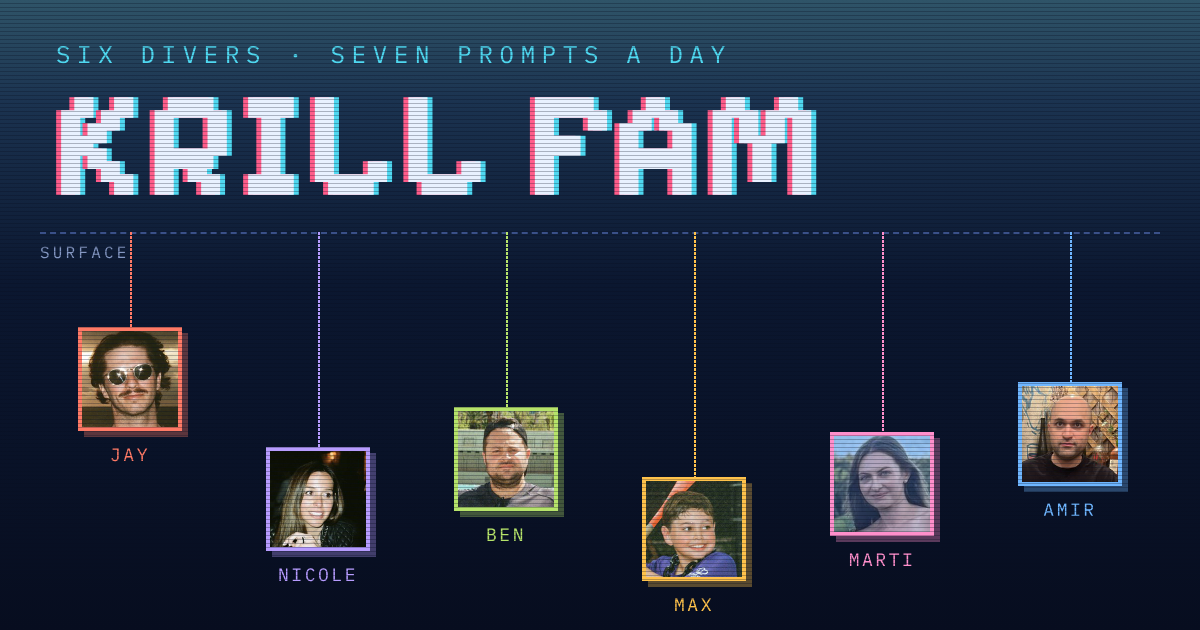
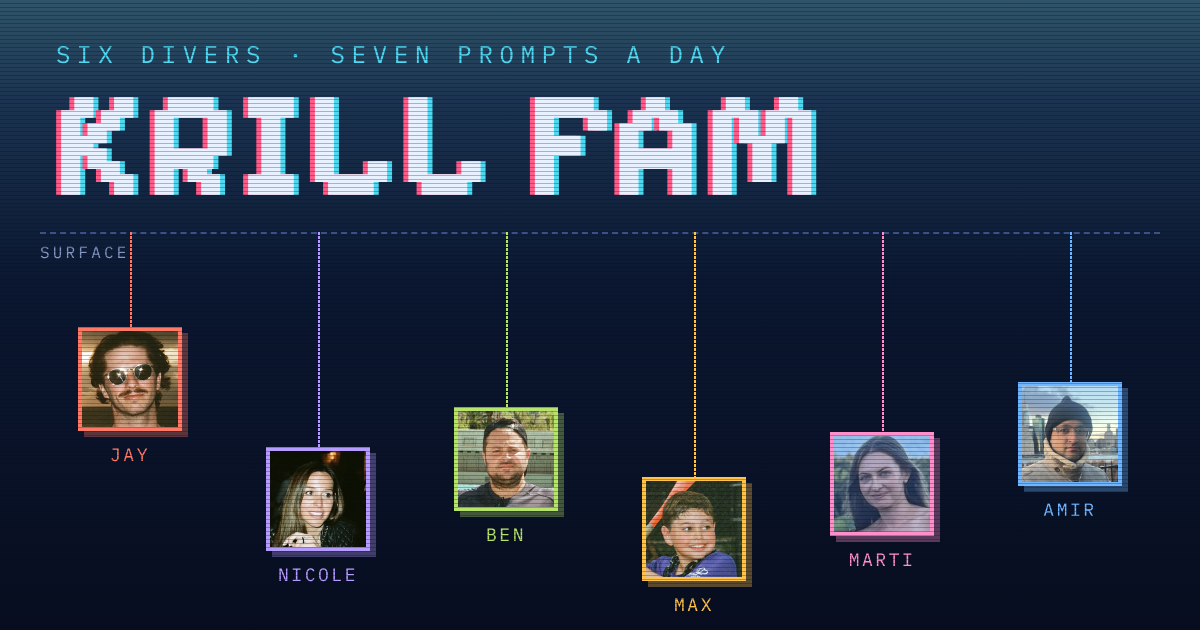
New photo for Amir; re-render link preview
Claude-Session: https://claude.ai/code/session_01CWV6Sp5nDrstpFoqGFAjnp

Changed region(s): [[0.8325, 0.6032, 0.9558, 0.7841]]

diff --git a/index.html b/index.html
@@ -196,7 +196,7 @@ td.num{white-space:nowrap}
 <body>
 <div id="app"></div>
 <div id="toast" role="status"></div>
-<script id="state" type="application/json">{"rev":3,"emo":{},"players":[{"id":"jay","name":"Jay","short":"Jay","e":"🦈","img":"faces/jay.jpg","c":"#FF7A66"},{"id":"nicole","name":"Nicole","short":"Nicole","e":"🐙","img":"faces/nicole.jpg","c":"#B79CFF"},{"id":"ben","name":"Ben","short":"Ben","e":"🐢","img":"faces/ben.jpg","c":"#B6E36A"},{"id":"max","name":"Max","short":"Max","e":"🐡","img":"faces/max.jpg","c":"#FFC24B"},{"id":"marti","name":"Marti","short":"Marti","e":"🦀","img":"faces/marti.jpg","c":"#FF8FCB"},{"id":"amir","name":"Amir","short":"Amir","e":"🐬","img":"faces/amir.jpg","c":"#6FB6FF"}],"days":{"2026-11-11":{"n":119,"prompts":[{"t":"Name a country where at least 50% of people speak English","g":"places"},{"t":"Name a bodily function or biological process","g":"science"},{"t":"Name a one-word animal that starts with T","g":"nature"},{"t":"Name something that has a needle","g":"life"},{"t":"Name an original movie or show from Netflix, Prime Video, etc.","g":"screen"},{"t":"Name a named object in space that's bigger than Earth","g":"science"},{"t":"Name a character from Mario, Zelda, Donkey Kong, etc.","g":"screen"}],"scores":{"amir":{"q":[10,85,60,30,30,10,30]},"jay":{"q":[30,60,30,30,60,10,30]},"ben":{"q":[30,30,60,60,10,10,30]},"max":{"q":[10,0,85,30,0,60,30]},"nicole":{"q":[10,60,10,10,0,30,30]}}}}}</script>
+<script id="state" type="application/json">{"rev":4,"emo":{},"players":[{"id":"jay","name":"Jay","short":"Jay","e":"🦈","img":"faces/jay.jpg","c":"#FF7A66"},{"id":"nicole","name":"Nicole","short":"Nicole","e":"🐙","img":"faces/nicole.jpg","c":"#B79CFF"},{"id":"ben","name":"Ben","short":"Ben","e":"🐢","img":"faces/ben.jpg","c":"#B6E36A"},{"id":"max","name":"Max","short":"Max","e":"🐡","img":"faces/max.jpg","c":"#FFC24B"},{"id":"marti","name":"Marti","short":"Marti","e":"🦀","img":"faces/marti.jpg","c":"#FF8FCB"},{"id":"amir","name":"Amir","short":"Amir","e":"🐬","img":"faces/amir2.jpg","c":"#6FB6FF"}],"days":{"2026-11-11":{"n":119,"prompts":[{"t":"Name a country where at least 50% of people speak English","g":"places"},{"t":"Name a bodily function or biological process","g":"science"},{"t":"Name a one-word animal that starts with T","g":"nature"},{"t":"Name something that has a needle","g":"life"},{"t":"Name an original movie or show from Netflix, Prime Video, etc.","g":"screen"},{"t":"Name a named object in space that's bigger than Earth","g":"science"},{"t":"Name a character from Mario, Zelda, Donkey Kong, etc.","g":"screen"}],"scores":{"amir":{"q":[10,85,60,30,30,10,30]},"jay":{"q":[30,60,30,30,60,10,30]},"ben":{"q":[30,30,60,60,10,10,30]},"max":{"q":[10,0,85,30,0,60,30]},"nicole":{"q":[10,60,10,10,0,30,30]}}}}}</script>
 <script id="js">
 (()=>{"use strict";
 const TIERS=[{p:0,n:'Miss',e:'⬛',c:'#5A6C96'},{p:10,n:'Plankton',e:'🫧',c:'#B9C9E4'},{p:15,n:'Too Clever',e:'',t:'TC',c:'#FF9F45'},{p:30,n:'Schooler',e:'🐟',c:'#4FD8F0'},{p:60,n:'Rare',e:'🦑',c:'#FF4D5E'},{p:85,n:'Deep Cut',e:'🏮',c:'#9B8CFF'},{p:100,n:'One in a Krillion',e:'🦐',t:'K★',c:'#FFD23F'}];
